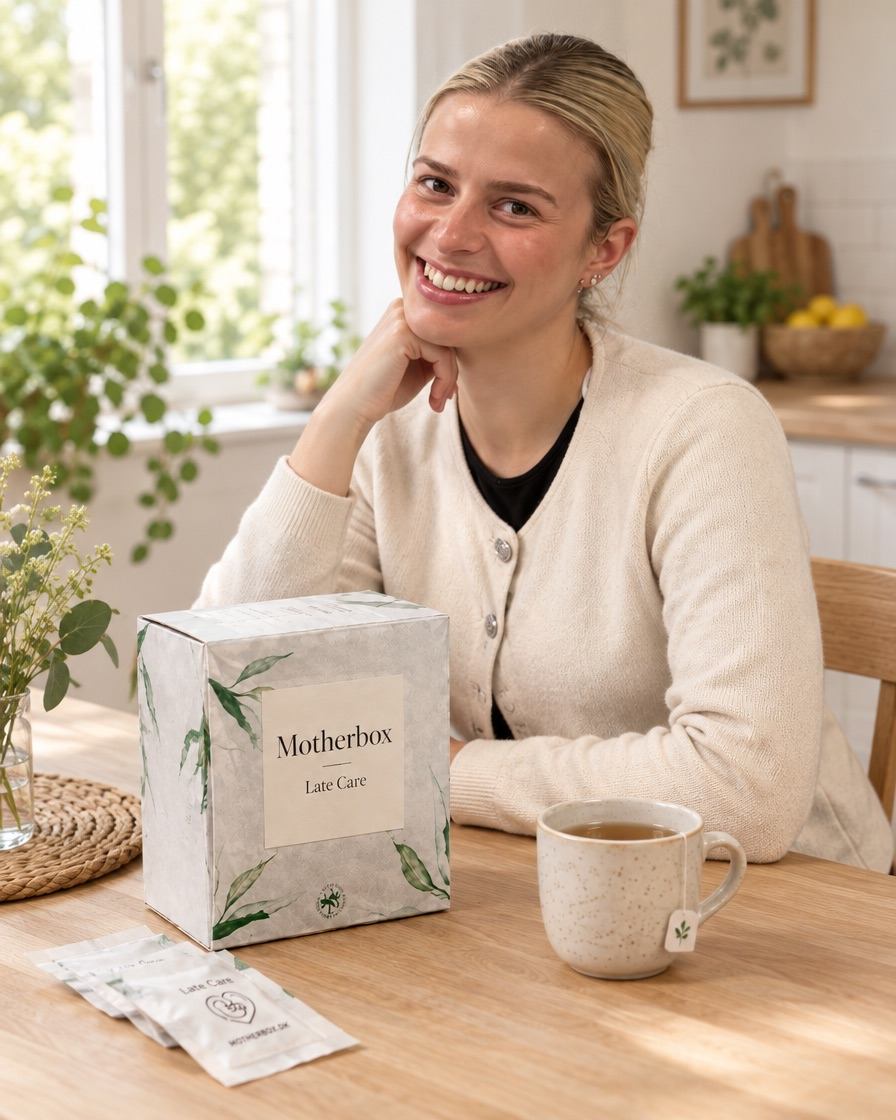
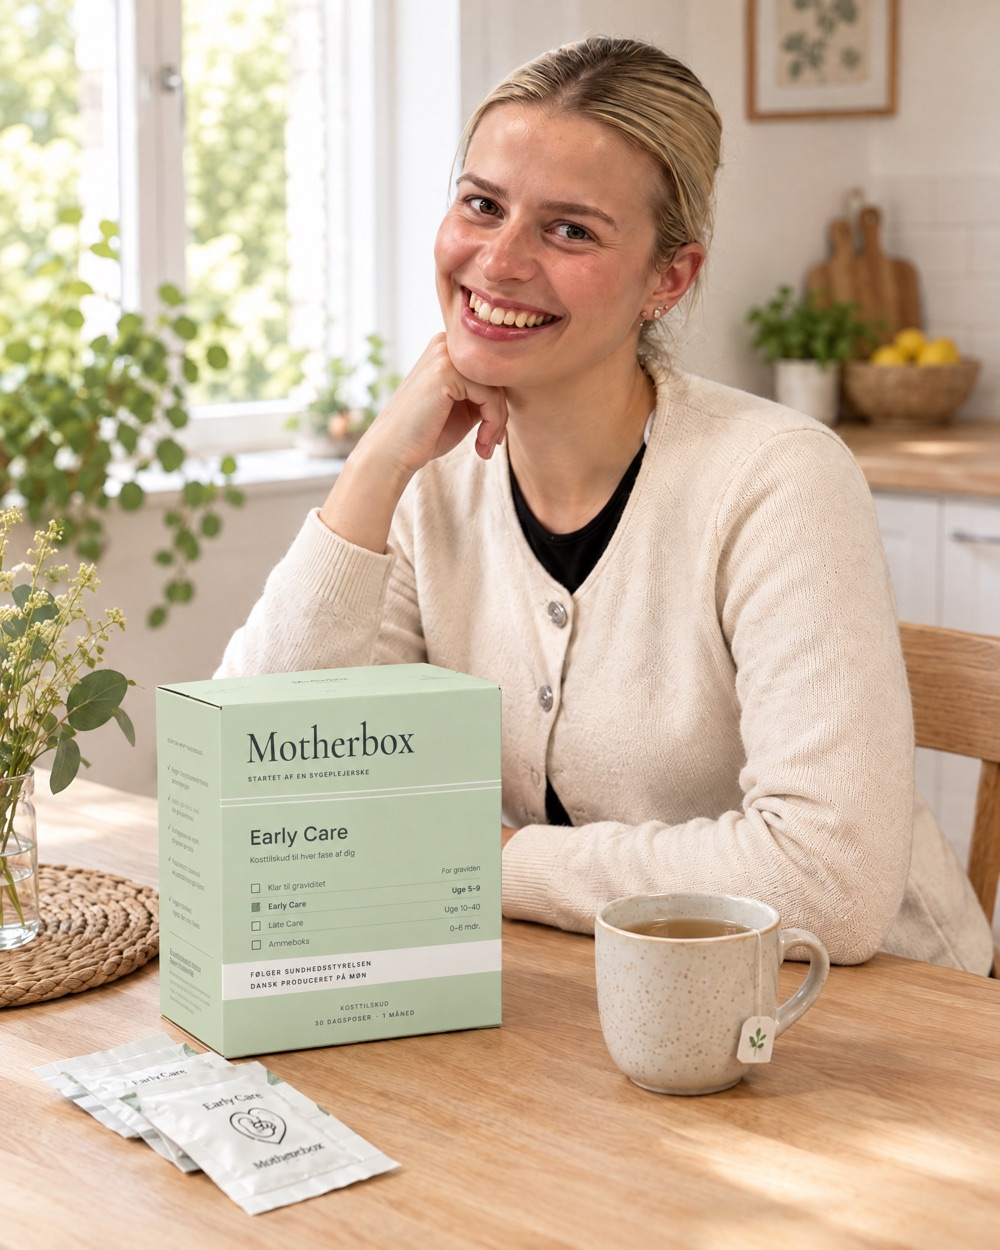
Ny æske på billederne, goodies droppet og citat rettet
- Nye produkt- og Camilla-billeder med den nye æske (fire farver)
- Boksene indeholder kun dagsposerne; goodies fjernet fra pakker og tekster
- "Den fandtes ikke" fjernet fra Camillas citat på forsiden og Om os

diff --git a/templates/pages/terms.html b/templates/pages/terms.html
@@ -9,7 +9,7 @@
 <p>{{ COMPANY.legal_name }}{% if COMPANY.cvr %}, CVR {{ COMPANY.cvr }}{% endif %}{% if COMPANY.address %}, {{ COMPANY.address }}{% endif %}. E-mail: <a href="mailto:{{ COMPANY.email }}">{{ COMPANY.email }}</a>{% if COMPANY.phone %}, telefon {{ COMPANY.phone }}{% endif %}.</p>
 
 <h2>2. Produkterne</h2>
-<p>Motherbox sælger bokse med kosttilskud og fødevarer ("goodies"). Motherbox er forhandler. Kosttilskuddene er Zentabox-dagsposer, som Zentabox A/S (CVR 37447250, Unionsvej 4, 4600 Køge) er ansvarlig virksomhed for, og som produceres af JemoPharm A/S (CVR 10216109). Goodies kommer fra tredjepartsproducenter. Alle produkter leveres i original, uåbnet emballage med producentens varedeklaration – vi åbner eller pakker ikke om. Indholdet af hver boks fremgår af den enkelte pakkeside. Hvis et produkt er udsolgt, kan vi erstatte det med et produkt med samme næringsstof og tilsvarende dosis. Det står altid i ordrebekræftelsen eller i boksen.</p>
+<p>Motherbox sælger bokse med kosttilskud. Motherbox er forhandler. Kosttilskuddene er Zentabox-dagsposer, som Zentabox A/S (CVR 37447250, Unionsvej 4, 4600 Køge) er ansvarlig virksomhed for, og som produceres af JemoPharm A/S (CVR 10216109). Alle produkter leveres i original, uåbnet emballage med producentens varedeklaration – vi åbner eller pakker ikke om. Indholdet af hver boks fremgår af den enkelte pakkeside. Hvis et produkt er udsolgt, kan vi erstatte det med et produkt med samme næringsstof og tilsvarende dosis. Det står altid i ordrebekræftelsen eller i boksen.</p>
 <p>Kosttilskud kan ikke erstatte en varieret kost. Oplysningerne på siden er generelle og er ikke personlig medicinsk rådgivning. Tal med din læge eller jordemoder, hvis du har en sygdom, tager medicin eller er i tvivl.</p>
 
 <h2>3. Priser og betaling</h2>
@@ -19,7 +19,7 @@
 <ul>
   <li>Abonnementet koster det beløb pr. måned, der står ved bestillingen. Beløbet trækkes første gang ved bestilling og derefter automatisk hver måned på samme dato.</li>
   <li>Hver boks sammensættes efter, hvor du er i forløbet. Er du gravid, sker det ud fra din terminsdato. Ændrer din terminsdato sig, eller er dit forløb ændret, så giv os besked, så tilpasser vi boksen.</li>
-  <li>Hver boks indeholder én pakning med 30 dagsposer, svarende til én måneds forbrug, samt goodies. Prisen er den samme hver måned.</li>
+  <li>Hver boks indeholder én pakning med 30 dagsposer, svarende til én måneds forbrug. Prisen er den samme hver måned.</li>
   <li><strong class="font-medium text-charcoal">Ingen binding.</strong> Du kan opsige abonnementet når som helst online under <a href="{% url 'manage_subscription' %}">Opsig abonnement</a> og får en kvittering med det samme. Opsigelsen gælder fra næste betaling. Er næste betaling allerede trukket, sender vi den boks.</li>
   <li>Abonnementet stopper ikke af sig selv efter fødslen. Vi skifter til boksen til tiden efter fødslen og minder dig om, at du kan opsige.</li>
   <li>Vi varsler prisændringer mindst 30 dage før, de træder i kraft. Du kan altid opsige inden.</li>

diff --git a/templates/pages/faq.html b/templates/pages/faq.html
@@ -4,11 +4,11 @@
 {% block heading %}Spørgsmål &amp; svar{% endblock %}
 {% block body %}
 <h3>Hvad er i boksen?</h3>
-<p>30 færdigpakkede dagsposer med kosttilskud til din fase – én pose om dagen – plus udvalgte goodies som urtete, snacks eller plejeprodukter. På hver <a href="{% url 'package_list' %}">pakkeside</a> kan du se præcis, hvad der er i dagsposen, og hvem der producerer den.</p>
+<p>30 færdigpakkede dagsposer med kosttilskud til din fase – én pose om dagen. På hver <a href="{% url 'package_list' %}">pakkeside</a> kan du se præcis, hvad der er i dagsposen, og hvem der producerer den.</p>
 <h3>Hvilke bokse findes der?</h3>
 <p>Fire: <em>Jeg vil gerne blive gravid</em>, <em>Early Care</em> (til og med uge 9), <em>Late Care</em> (uge 10 til fødslen) og <em>Ammeboksen</em>. Er du gravid, bruger vi din terminsdato til at sende den rigtige boks, og abonnementet skifter automatisk fra Early Care til Late Care i uge 10.</p>
 <h3>Er Late Care den samme hver måned?</h3>
-<p>Dagsposen er den samme, fordi Sundhedsstyrelsens anbefalinger er de samme fra uge 10 og frem til fødslen. Goodies og vores brev skifter derimod med din graviditetsuge.</p>
+<p>Dagsposen er den samme, fordi Sundhedsstyrelsens anbefalinger er de samme fra uge 10 og frem til fødslen. Vores brev skifter derimod med din graviditetsuge.</p>
 <h3>Hvem producerer dagsposerne?</h3>
 <p>Den danske producent <a href="{% url 'manufacturer_list' %}">JemoPharm A/S</a> i Stege på Møn, som har udviklet kosttilskud og naturlægemidler siden 1986 og bl.a. står bag VitaCare. Dagsposerne er Zentabox-produkter – Zentabox A/S er ansvarlig virksomhed – og Motherbox forhandler dem i original, uåbnet pakning.</p>
 <h3>Hvad koster det?</h3>

diff --git a/templates/pages/about.html b/templates/pages/about.html
@@ -5,8 +5,8 @@
 {% block body %}
 {% load static %}
 <img src="{% static 'images/motherbox/camilla-bord.jpg' %}" alt="Camilla Stær, stifter af Motherbox" class="w-full mb-8" style="aspect-ratio:4/5;object-fit:cover;max-height:620px;">
-<p>Da Camilla Stær blev gravid, ledte hun efter en nem løsning: de rigtige kosttilskud, samlet ét sted og leveret hver måned som et abonnement. Den fandtes ikke. I stedet stod hun på apoteket og i Matas og købte det hele enkeltvis – og endte med halvtomme bøtter og stadig tvivl om, hvorvidt hun fik det rigtige.</p>
-<p>Camilla er uddannet sygeplejerske. Derfor startede hun Motherbox: én boks om måneden med 30 dagsposer fra Zentabox, produceret af JemoPharm på Møn, der følger Sundhedsstyrelsens anbefalinger for netop din fase – plus lidt forkælelse, der følger din graviditetsuge.</p>
+<p>Da Camilla Stær blev gravid, ledte hun efter en nem løsning: de rigtige kosttilskud, samlet ét sted og leveret hver måned som et abonnement. I stedet stod hun på apoteket og i Matas og købte det hele enkeltvis – og endte med halvtomme bøtter og stadig tvivl om, hvorvidt hun fik det rigtige.</p>
+<p>Camilla er uddannet sygeplejerske. Derfor startede hun Motherbox: én boks om måneden med 30 dagsposer fra Zentabox, produceret af JemoPharm på Møn, der følger Sundhedsstyrelsens anbefalinger for netop din fase.</p>
 
 <h2>Fire bokse – fra ønske til amning</h2>
 <ul>

diff --git a/templates/catalog/home.html b/templates/catalog/home.html
@@ -130,7 +130,7 @@
   <div class="relative max-w-7xl mx-auto px-6 py-24 md:py-36 text-center md:text-left text-white"><div class="md:max-w-xl">
     <p class="text-[11px] md:text-xs track-wide uppercase font-medium mb-4">Startet af sygeplejerske Camilla Stær</p>
     <h3 class="serif text-[2rem] md:text-[2.5rem] font-normal mb-6">Støtte til hver fase</h3>
-    <p class="serif text-xl md:text-2xl font-light leading-relaxed mb-6">“Da jeg blev gravid, ledte jeg efter én nem løsning: de rigtige kosttilskud, samlet ét sted og leveret hver måned. Den fandtes ikke – så jeg startede Motherbox.”</p>
+    <p class="serif text-xl md:text-2xl font-light leading-relaxed mb-6">“Da jeg blev gravid, ledte jeg efter én nem løsning: de rigtige kosttilskud, samlet ét sted og leveret hver måned. Så startede jeg Motherbox.”</p>
     <p class="text-xs track-wide uppercase font-medium">Camilla Stær · Stifter</p>
   </div></div>
 </section>

diff --git a/templates/catalog/partials/why.html b/templates/catalog/partials/why.html
@@ -13,7 +13,7 @@
       </div>
       <div class="mt-5 bg-cream rounded-md px-5 py-4 flex items-center justify-between gap-3">
         <span class="text-base md:text-[1.35rem] text-charcoal">Pris pr. måned</span>
-        <span class="flex items-center gap-3"><span class="hidden sm:inline bg-blush text-[11px] track-wide uppercase px-2 py-1">Inkl. goodies &amp; fragt</span><span class="text-xl md:text-[1.5rem] text-charcoal">{{ sub_price|floatformat:0 }} kr.</span></span>
+        <span class="flex items-center gap-3"><span class="hidden sm:inline bg-blush text-[11px] track-wide uppercase px-2 py-1">Inkl. fragt</span><span class="text-xl md:text-[1.5rem] text-charcoal">{{ sub_price|floatformat:0 }} kr.</span></span>
       </div>
       <p class="text-[10px] text-muted text-center mt-3">Enkeltboks uden abonnement: {{ min_single_price|floatformat:0 }} kr. Ingen binding på abonnementet.</p>
     </div>

diff --git a/templates/catalog/package_list.html b/templates/catalog/package_list.html
@@ -4,7 +4,7 @@
 <div class="py-16 md:py-20 text-center bg-cream px-4">
   <p class="text-xs track-wide uppercase text-terra mb-4">4 bokse · fra ønske til amning</p>
   <h1 class="serif text-5xl md:text-6xl font-light mb-4">Boksene</h1>
-  <p class="text-muted font-light text-lg max-w-xl mx-auto">Hver boks indeholder 30 dagsposer til netop din fase plus goodies. Med abonnement skifter boksen automatisk, når du går ind i en ny fase.</p>
+  <p class="text-muted font-light text-lg max-w-xl mx-auto">Hver boks indeholder 30 dagsposer til netop din fase. Med abonnement skifter boksen automatisk, når du går ind i en ny fase.</p>
 </div>
 
 <section class="py-12 md:py-16 bg-white">

diff --git a/templates/admin/orders/packing_list.html b/templates/admin/orders/packing_list.html
@@ -1,6 +1,6 @@
 {% extends "admin/base_site.html" %}
 {% block content %}
-<p>Indholdet er beregnet med refill-logik: kunden får kun de kosttilskud, hun er ved at løbe tør for, plus nye næringsstoffer og månedens goodies. Brug handlingen <em>"Opret forsendelse"</em> på ordrelisten, når boksen pakkes. Så bliver indholdet gemt i kundens historik.</p>
+<p>Indholdet er beregnet med refill-logik: kunden får kun de kosttilskud, hun er ved at løbe tør for, plus nye næringsstoffer. Brug handlingen <em>"Opret forsendelse"</em> på ordrelisten, når boksen pakkes. Så bliver indholdet gemt i kundens historik.</p>
 
 <h2>Indkøbsbehov i dag (pakninger)</h2>
 <table>

diff --git a/templates/catalog/package_detail.html b/templates/catalog/package_detail.html
@@ -233,7 +233,7 @@
       {% endwith %}{% endfor %}
     </div>
     <div class="bg-cream overflow-hidden min-h-[300px]">
-      <img src="{{ package.kit_image|default:package.box_image }}" alt="Motherbox {{ package.label }} i gaveæsken" loading="lazy" class="w-full h-full object-cover">
+      <img src="{{ package.kit_image|default:package.box_image }}" alt="Motherbox {{ package.label }} med en dagspose" loading="lazy" class="w-full h-full object-cover">
     </div>
   </div>
 </section>

diff --git a/catalog/seed_data.py b/catalog/seed_data.py
@@ -156,40 +156,12 @@ AMME_PACK = {'item': 'motherbox-amme', 'dose': '1 dagspose', 'short': 'D + jod +
              'purpose': 'Dækker Sundhedsstyrelsens anbefaling om 10 µg D-vitamin, mens du ammer, og indeholder også jod og DHA.'}
 
 
-def goodie(slug, purpose='', weeks=''):
-    """weeks = "10–13" means: only sent while the customer is in that pregnancy-week window (Late Care rotates goodies)."""
-    return {'item': slug, 'purpose': purpose, 'upd': 0, 'short': weeks}
-
-
+# Each box holds one 30-sachet pack. Goodies were dropped from the boxes in October 2026.
 CONTENTS = {
-    'klar-til-graviditet': [TTC_PACK,
-                            goodie('clipper-rooibos', 'Koffeinfri te. Fødevarestyrelsen anbefaler at begrænse koffein, allerede når man prøver at blive gravid.'),
-                            goodie('clearspring-tamari-graeskarkerner', 'Ristede græskarkerner i snackpose.')],
-    'early-care': [EARLY_PACK,
-                   goodie('gin-gins-original', 'Ingefærkarameller i almindelig fødevaremængde. Rart at have i tasken.'),
-                   goodie('panela-ingefaer-pastiller', 'Små, milde ingefærpastiller.'),
-                   goodie('hampstead-citron-ingefaer', 'Ingefærte uden lakrids.')],
-    # Late Care: the supplement is the same every month; goodies follow the pregnancy week (4-week windows).
-    'late-care': [LATE_PACK,
-                  goodie('hampstead-citron-ingefaer', 'Ingefærte uden lakrids til de sidste kvalme-uger.', '10–13'),
-                  goodie('island-bakery-oat-raisin', 'Tørre havrekiks, som mange har glæde af om morgenen.', '10–13'),
-                  goodie('clipper-rooibos', 'Koffeinfri te.', '14–17'),
-                  goodie('clearspring-tamari-graeskarkerner', 'Ristede græskarkerner i snackpose.', '14–17'),
-                  goodie('clipper-kamille', 'Kamillete til aftenen.', '18–21'),
-                  goodie('panela-ingefaer-pastiller', 'Små, milde ingefærpastiller til tasken.', '18–21'),
-                  goodie('island-bakery-oat-raisin', 'Havrekiks til eftermiddagen.', '22–25'),
-                  goodie('clipper-rooibos', 'Koffeinfri te.', '22–25'),
-                  goodie('clearspring-tamari-graeskarkerner', 'Ristede græskarkerner i snackpose.', '26–29'),
-                  goodie('hampstead-citron-ingefaer', 'Ingefærte uden lakrids.', '26–29'),
-                  goodie('clipper-kamille', 'Til en rolig kop te om aftenen.', '30–33'),
-                  goodie('island-bakery-oat-raisin', 'Havrekiks til eftermiddagen.', '30–33'),
-                  goodie('biogan-dadler', 'Økologiske dadler. Mange spiser dadler i de sidste uger af graviditeten.', '34–37'),
-                  goodie('clipper-rooibos', 'Koffeinfri te.', '34–37'),
-                  goodie('biogan-dadler', 'Økologiske dadler til de sidste uger.', '38–40'),
-                  goodie('island-bakery-oat-raisin', 'Noget sødt til hospitalstasken.', '38–40')],
-    'ammeboks': [AMME_PACK,
-                 goodie('clipper-kamille', 'Til en rolig kop te mellem amningerne.'),
-                 goodie('island-bakery-oat-raisin', 'Noget sødt til amningen.')],
+    'klar-til-graviditet': [TTC_PACK],
+    'early-care': [EARLY_PACK],
+    'late-care': [LATE_PACK],
+    'ammeboks': [AMME_PACK],
 }
 
 # 'Hvem spørger vi til råds' – kun rådgivere vi faktisk arbejder med. Oprettes kun første gang; ret og udvid derefter i admin.

diff --git a/catalog/seed_packages.py b/catalog/seed_packages.py
@@ -29,16 +29,16 @@ PACKAGE_TEXTS = [
                     'Når du har kvalme, kan det være svært at spise varieret. Så er det rart at have styr på de tilskud, Sundhedsstyrelsen anbefaler – i én daglig pose.',
         'why': 'Sundhedsstyrelsen anbefaler 400 µg folsyre til og med uge 12 og 10 µg D-vitamin hele graviditeten. Begge dele er i dagsposen. Folat bidrager til væksten af moderens væv under graviditeten, og D-vitamin bidrager til normal optagelse og udnyttelse af calcium.\n\n'
                'Ekstra jern venter vi med til uge 10, som Sundhedsstyrelsen anbefaler – så skifter dit abonnement automatisk til Late Care.\n\n'
-               'Vi har ikke ingefærtilskud med, fordi danske myndigheder fraråder ingefærkapsler og -shots til gravide. I stedet er der ingefær i almindelig fødevaremængde blandt goodies. Er kvalmen svær, så tal med din læge eller jordemoder.',
+               'Vi har ikke ingefærtilskud med, fordi danske myndigheder fraråder ingefærkapsler og -shots til gravide. Er kvalmen svær, så tal med din læge eller jordemoder.',
     },
     {
         'slug': 'late-care', 'position': 2, 'stage': 'pregnant', 'month': None, 'week_start': 10, 'week_end': 40,
         'title': 'Late Care',
-        'tagline': 'Fra uge 10 til fødslen: jern, D-vitamin og DHA i én daglig pose – og goodies, der følger din graviditet måned for måned.',
+        'tagline': 'Fra uge 10 til fødslen: jern, D-vitamin og DHA i én daglig pose.',
         'hero_nutrient': 'Jern fra uge 10',
         'image_url': U + 'photo-1541956799312-3f9df99e0006?w=900&q=80&fit=crop',
         'body_now': 'Fra uge 10 stiger din blodvolumen, og den vokser med 40–50 % i løbet af graviditeten. I andet trimester mineraliseres fosterets knogler, og hjernen vokser hurtigt. I tredje trimester lagrer fosteret jern og fedt til de første måneder.\n\n'
-                    'Sundhedsstyrelsens anbefalinger er de samme fra uge 10 og helt frem til fødslen. Derfor er dagsposen også den samme – mens goodies og vores brev skifter med din graviditetsuge.',
+                    'Sundhedsstyrelsens anbefalinger er de samme fra uge 10 og helt frem til fødslen. Derfor er dagsposen også den samme – mens vores brev skifter med din graviditetsuge.',
         'why': 'Sundhedsstyrelsen anbefaler 40–50 mg jern dagligt fra uge 10. Dagsposen indeholder 39 mg jern. Jern bidrager til normal dannelse af røde blodlegemer og hæmoglobin og til normal ilttransport i kroppen. '
                'D-vitamin (10 µg) fortsætter hele graviditeten.\n\n'
                + DHA_CLAIM + ' Dagsposen indeholder 500 mg DHA.\n\n'

diff --git a/catalog/models.py b/catalog/models.py
@@ -144,13 +144,13 @@ class Package(models.Model):
 
     @property
     def box_image(self):
-        """Main product photo: daily-sachet pack and goodies side by side (AI-generated illustration)."""
+        """Main product photo: the box with two daily sachets on a kitchen table (AI-generated illustration)."""
         key = self._IMAGES.get(self.slug)
         return static(f'images/motherbox/side-{key}.jpg') if key else self.image_url
 
     @property
     def kit_image(self):
-        """The monthly gift box with the daily-sachet pack and goodies inside."""
+        """Close-up of the box with a hand holding one daily sachet (AI-generated illustration)."""
         key = self._IMAGES.get(self.slug)
         return static(f'images/motherbox/kit-{key}.jpg') if key else ''
 

diff --git a/catalog/views.py b/catalog/views.py
@@ -16,7 +16,7 @@ WHY_ROWS = [
     'Én dagspose – 30 poser pr. boks',
     'Produceret i Danmark af JemoPharm',
     'Fuld varedeklaration før køb',
-    'Goodies i hver boks · ingen binding',
+    'Ingen binding · opsig når som helst',
 ]
 
 
